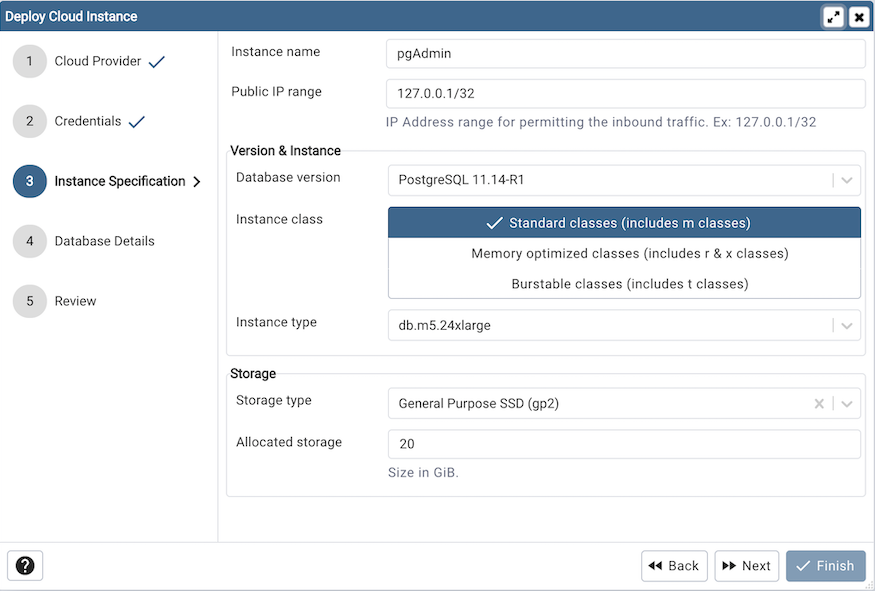
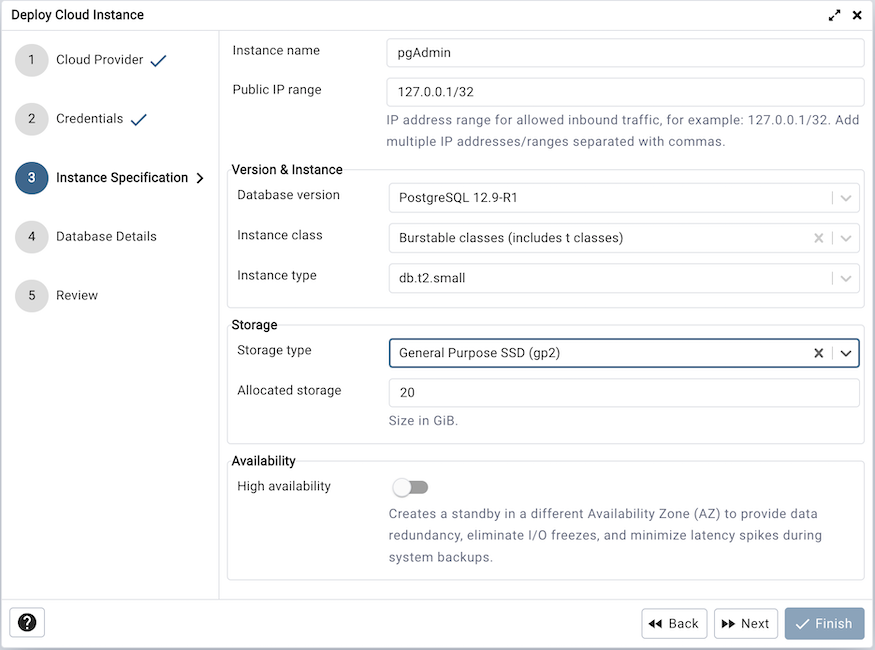
Added high availability options to AWS deployment. #5304

diff --git a/web/pgadmin/misc/cloud/static/js/cloud_db_details_schema.ui.js b/web/pgadmin/misc/cloud/static/js/cloud_db_details_schema.ui.js
@@ -18,6 +18,7 @@ class CloudInstanceDetailsSchema extends BaseUISchema {
       oid: undefined,
       name: '',
       public_ip: initValues.hostIP,
+      high_availability: false,
       ...initValues
     });
 
@@ -50,6 +51,10 @@ class CloudInstanceDetailsSchema extends BaseUISchema {
         type: 'nested-fieldset', label: gettext('Storage'),
         mode: ['create'],
         schema: new StorageSchema(),
+      }, {
+        type: 'nested-fieldset', label: gettext('Availability'),
+        mode: ['create'],
+        schema: new HighAvailablity(),
       },
     ];
   }
@@ -198,12 +203,12 @@ export class InstanceSchema extends BaseUISchema {
       noEmpty: true,
     },{
       id: 'db_instance_class', label: gettext('Instance class'),
-      type: 'toggle',
+      type: 'select',
       options: [
         {'label': gettext('Standard classes (includes m classes)'), value: 'm'},
         {'label': gettext('Memory optimized classes (includes r & x classes)'), value: 'x'},
         {'label': gettext('Burstable classes (includes t classes)'), value: 't'},
-      ],  noEmpty: true, orientation: 'vertical',
+      ],  noEmpty: true
     },{
       id: 'instance_type', label: gettext('Instance type'),
       options: this.instanceOpts,
@@ -296,6 +301,27 @@ export class StorageSchema extends BaseUISchema {
             }
           }
         },
+      },
+    ];
+  }
+}
+
+export class HighAvailablity extends BaseUISchema {
+  constructor() {
+    super({
+      high_availability: false
+    });
+  }
+  get baseFields() {
+    return [
+      {
+        id: 'high_availability',
+        label: gettext('High availability'),
+        type: 'switch',
+        mode: ['create'],
+        helpMessage: gettext(
+          'Creates a standby in a different Availability Zone (AZ) to provide data redundancy, eliminate I/O freezes, and minimize latency spikes during system backups.'
+        ),
       },
     ];
   }

diff --git a/web/pgadmin/misc/cloud/static/js/aws.js b/web/pgadmin/misc/cloud/static/js/aws.js
@@ -205,6 +205,10 @@ export function validateCloudStep3(cloudDBDetails, nodeInfo) {
 }
 
 function createData(name, value) {
+  if (typeof(value) == 'boolean') {
+    value = (value === true) ? 'True' : 'False';
+  }
+
   return { name, value };
 }
 
@@ -237,7 +241,11 @@ export function getAWSSummary(cloud, cloudInstanceDetails, cloudDBDetails) {
     createData(gettext('Port'),  cloudDBDetails.db_port),
   ];
 
-  return [rows1, rows2, rows3, rows4];
+  const rows5 = [
+    createData(gettext('High availability'), cloudInstanceDetails.high_availability),
+  ];
+
+  return [rows1, rows2, rows3, rows4, rows5];
 }
 
 const getStorageType = (cloudInstanceDetails) => {

diff --git a/web/pgadmin/misc/cloud/static/js/cloud_components.jsx b/web/pgadmin/misc/cloud/static/js/cloud_components.jsx
@@ -71,10 +71,11 @@ export function FinalSummary(props) {
   if (props.cloudProvider == 'biganimal') {
     summary = getBigAnimalSummary(props.cloudProvider, props.instanceData, props.databaseData);
     summaryHeader[1] = 'Version Details';
-  } else if(props.cloudProvider == 'azure'){
+  } else if(props.cloudProvider == 'azure') {
     summaryHeader.push('Network Connectivity','Availability');
     summary = getAzureSummary(props.cloudProvider, props.instanceData, props.databaseData);
   }else {
+    summaryHeader.push('Availability');
     summary = getAWSSummary(props.cloudProvider, props.instanceData, props.databaseData);
   }
 

diff --git a/web/pgacloud/providers/rds.py b/web/pgacloud/providers/rds.py
@@ -102,6 +102,8 @@ class RdsProvider(AbsProvider):
         parser_create_instance.add_argument('--storage-type', default='gp2',
                                             help='storage type for the data '
                                                  'database (default: gp2)')
+        parser_create_instance.add_argument('--high-availability',
+                                            default=False)
         parser_create_instance.add_argument('--public-ip', default='127.0.0.1',
                                             help='Public IP '
                                                  '(default: 127.0.0.1)')
@@ -207,7 +209,7 @@ class RdsProvider(AbsProvider):
                                    StorageEncrypted=True,
                                    Iops=args.storage_iops,
                                    AutoMinorVersionUpgrade=True,
-                                   MultiAZ=False,
+                                   MultiAZ=bool(args.high_availability),
                                    MasterUsername=args.db_username,
                                    MasterUserPassword=db_password,
                                    DBInstanceClass=args.instance_type,

diff --git a/web/pgadmin/misc/cloud/rds/__init__.py b/web/pgadmin/misc/cloud/rds/__init__.py
@@ -283,6 +283,8 @@ def deploy_on_rds(data):
             str(data['instance_details']['storage_size']),
             '--public-ip',
             str(data['instance_details']['public_ip']),
+            '--high-availability',
+            str(data['instance_details']['high_availability'])
             ]
 
     if data['instance_details']['storage_type'] == 'io1':

diff --git a/docs/en_US/release_notes_6_15.rst b/docs/en_US/release_notes_6_15.rst
@@ -1,0 +1,25 @@
+************
+Version 6.15
+************
+
+Release date: 2022-10-20
+
+This release contains a number of bug fixes and new features since the release of pgAdmin 4 v6.14.
+
+Supported Database Servers
+**************************
+**PostgreSQL**: 10, 11, 12, 13 and 14
+
+**EDB Advanced Server**: 10, 11, 12, 13 and 14
+
+New features
+************
+
+  | `Issue #5304 <https://github.com/pgadmin-org/pgadmin4/issues/5304>`_ -  Added high availability options to AWS deployment.
+
+Housekeeping
+************
+
+
+Bug fixes
+*********

diff --git a/docs/en_US/cloud_azure_postgresql.rst b/docs/en_US/cloud_azure_postgresql.rst
@@ -73,7 +73,7 @@ details.
   should be accepted. Add multiple IP addresses/ranges separated with commas,
   for example: "192.168.0.50, 192.168.0.100 - 192.168.0.200"
 
-* User *Zone redundant high availability* option to specify High Availability
+* Use *Zone redundant high availability* option to specify High Availability
   option. Zone redundant high availability deploys a standby replica in a
   different zone.
   The Burstable instance type does not support high availability.

diff --git a/docs/en_US/cloud_aws_rds.rst b/docs/en_US/cloud_aws_rds.rst
@@ -53,6 +53,9 @@ details.
 
 * Use the *Provisioned IOPS* in case of  Provisioned IOPS (SSD) storage type.
 
+* Use the *High Availability* option to specify High Availability
+  option. This option creates a standby in a different Availability Zone(AZ).
+
 .. image:: images/cloud_aws_database.png
     :alt: Cloud Deployment Provider
     :align: center

diff --git a/docs/en_US/release_notes.rst b/docs/en_US/release_notes.rst
@@ -11,6 +11,7 @@ notes for it.
 .. toctree::
    :maxdepth: 1
 
+   release_notes_6_15
    release_notes_6_14
    release_notes_6_13
    release_notes_6_12
